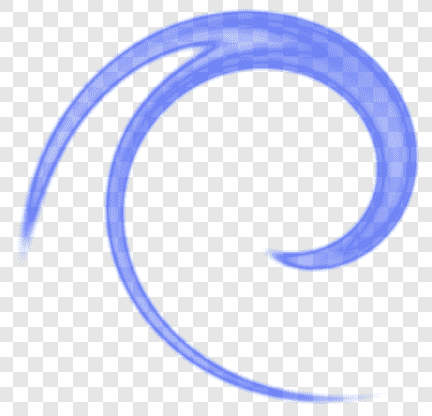
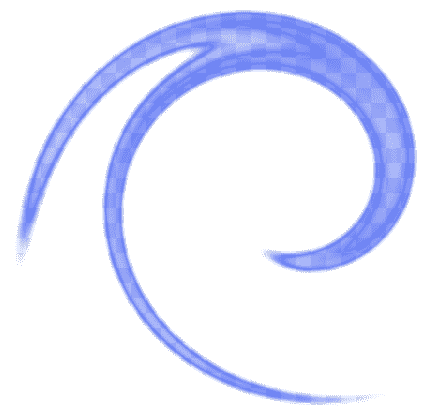
Minor tweaks to wormhole.  A new wormhole image.

diff --git a/js/game/entities.js b/js/game/entities.js
@@ -798,8 +798,8 @@ Blasteroids.initEntities = function () {
      * @property {boolean} active <code>false</code>
      * @property {string} image <code>'images/effects/spacewarp.png'</code> 
      * @property {boolean} imageStretchToFit <code>true</code>
-     * @property {number} height <code>1.5</code>
-     * @property {number} width <code>1.5</code>
+     * @property {number} height <code>3</code>
+     * @property {number} width <code>3</code>
      */
     Blasteroids.wormhole = $.extend({},
         BoxBoxUtil.angleImpulse,
@@ -810,8 +810,9 @@ Blasteroids.initEntities = function () {
             active: false,
             image: 'images/effects/spacewarp.png',
             imageStretchToFit: true,
-            height: 1.5,
-            width: 1.5,
+            height: 3,
+            width: 3,
+            radius: 1.5,
 
             $onNewGame: function () {
                 //noop
@@ -828,35 +829,35 @@ Blasteroids.initEntities = function () {
             $transport: function (entity) {
                 debugger;
 
-                if (!entity.destroyed && !entity._ops.createdByWormhole) {
-                    entity.destroy();
+                var targetPoint;
 
-                    if (this === Blasteroids.activeWormhole.a) {
-                        entity = Blasteroids.world.createEntity(
-                            entity._ops,
-                            {
-                                destroyed: false,
-                                createdByWormhole: true,
-                                x: Blasteroids.activeWormhole.b._ops.x,
-                                y: Blasteroids.activeWormhole.b._ops.y
-                            }
-                        );
-                    } else {
-                        entity = Blasteroids.world.createEntity(
-                            entity._ops,
-                            {
-                                createdByWormhole: true,
-                                destroyed: false,
-                                x: Blasteroids.activeWormhole.a._ops.x,
-                                y: Blasteroids.activeWormhole.a._ops.y
-                            }
-                        );
-                    }
+                entity.destroy();
 
-                    setTimeout($.proxy(function () {
-                        this._ops.createdByWormhole = false;
-                    }, entity), 1500);
+                if (this === Blasteroids.activeWormhole.a) {
+                    targetPoint = {
+                        x: Blasteroids.activeWormhole.b._ops.x,
+                        y: Blasteroids.activeWormhole.b._ops.y
+                    };
+                } else {
+                    targetPoint = {
+                        x: Blasteroids.activeWormhole.a._ops.x,
+                        y: Blasteroids.activeWormhole.a._ops.y
+                    };
                 }
+
+                entity = Blasteroids.world.createEntity(
+                    entity._ops,
+                    {
+                        destroyed: false,
+                        createdByWormhole: true,
+                        x: targetPoint.x,
+                        y: targetPoint.y
+                    }
+                );
+
+                setTimeout($.proxy(function () {
+                    this._ops.createdByWormhole = false;
+                }, entity), 1500);
             },
 
             /**
@@ -877,11 +878,17 @@ Blasteroids.initEntities = function () {
                         for (; i < intersectingEntities.length; i++) {
                             var entity = intersectingEntities[i];
 
-                            //play an alert sound
-                            Audio.play('sounds/NFF-space-warp.wav');
+                            if (entity._ops.name === 'blast') {
+                                entity.destroy();
+                            } else {
+                                if (!entity.destroyed && !entity._destroyed && !entity._ops.createdByWormhole) {
+                                    //play an alert sound
+                                    Audio.play('sounds/NFF-space-warp.wav');
 
-                            //traverse the wormhole
-                            this.$transport && this.$transport(entity);
+                                    //traverse the wormhole
+                                    this.$transport && this.$transport(entity);
+                                }
+                            }
                         }
                     }
                 }
